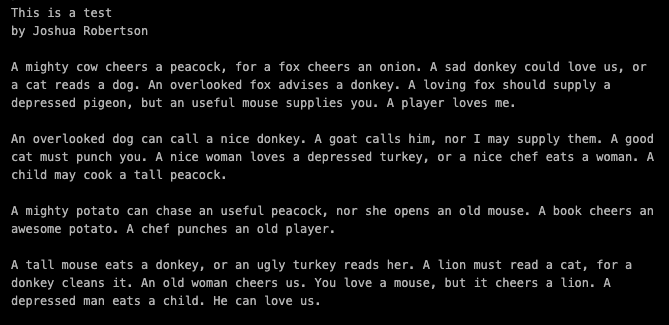
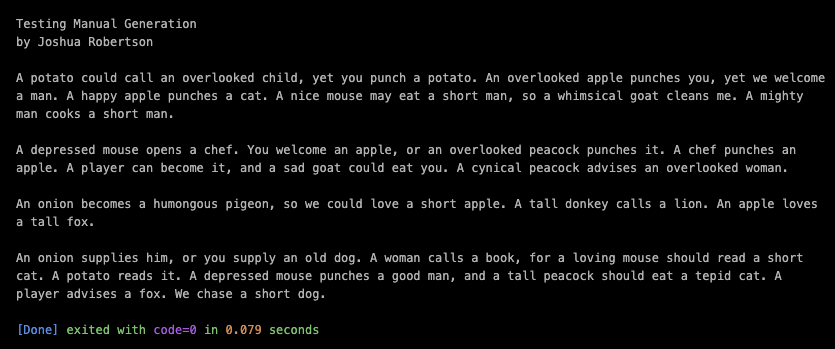
Added .generateRandomDocument() method to Document. Can now completely generate a document with random number of paragraphs and sentences.

Changed region(s): [[0.0, 0.4, 0.9865, 0.9538], [0.0, 0.1846, 0.9865, 0.3385], [0.0, 0.0308, 0.2392, 0.1538]]

diff --git a/documentClass.js b/documentClass.js
@@ -1,5 +1,6 @@
 import newParagraph from "./assemblers.js";
-import { newSentence  } from "./assemblers.js";
+import { newSentence } from "./assemblers.js";
+import { randomNumber, randomBoolean } from "./helperFunctions.js"
 
 class Document {
     constructor(title, author) {
@@ -37,9 +38,32 @@ class Document {
     generateParagraph(numberOfClauses, sentenceTypes = []) {
         // Calls newParagraph factory function in assemblers.js. 
         const generatedParagraph = newParagraph(numberOfClauses, sentenceTypes);
-        const paragraph = new Paragraph(generatedParagraph); //change (theme) to object i.e. ({ theme, numberOfClauses })
+        const paragraph = new Paragraph(generatedParagraph);
         this.paragraphs.push(paragraph);
         return paragraph;
+    }
+
+    generateRandomDocument() {
+        let paragraphCount = randomNumber(1, 10);
+        let clauseCount;
+        for (let i = 0; i < paragraphCount; i ++) {
+            clauseCount = randomNumber(1,8);
+            let sentenceType;
+            let sentenceTypes = [];
+            for (let j = 0; j < clauseCount; j ++) {
+                if (randomBoolean()) {
+                    sentenceType = 'simple'
+                } else {
+                    sentenceType = 'compound'
+                }
+                sentenceTypes.push(sentenceType);
+            }
+            let generatedParagraph = newParagraph(clauseCount, sentenceTypes);
+            let paragraph = new Paragraph(generatedParagraph);
+            this.paragraphs.push(paragraph);
+        }
+        //console.log(this.document.renderDocument());
+        return this.paragraphs;
     }
 
     renderDocument() {

diff --git a/main.js b/main.js
@@ -136,8 +136,7 @@ console.log('testing action - assembleVerb(testNoun)',
 );
 */
 
-const newDocument = new Document('This is a test', 'Joshua Robertson');
-
+const newDocument = new Document('Testing Manual Generation', 'Joshua Robertson');
 
 newDocument.generateParagraph(4, ['compound', 'compound', 'simple', 'compound']);
 newDocument.generateParagraph(5, ['simple', 'compound', 'simple', 'compound', 'simple']);
@@ -146,17 +145,28 @@ newDocument.generateParagraph(6, ['compound', 'compound', 'simple', 'compound', 
 
 console.log(
     'paragraph[0] before adding sentence:',
-    newDocument.paragraphs[0]
+    newDocument.paragraphs[0],
+    `\n`
 );
 
 console.log(
     'new sentence being added to paragrpah:',
-    newDocument.paragraphs[0].addSentence('simple')
+    newDocument.paragraphs[0].addSentence('simple'),
+    `\n`
 );
 
 console.log(
     'paragraph[0] after new sentence added:',
-    newDocument.paragraphs[0]
+    newDocument.paragraphs[0],
+    `\n`
 );
 
 console.log(newDocument.renderDocument());
+
+
+
+/*
+const testDocument = new Document('Testing Random Generation', 'Joshua Robertson')
+testDocument.generateRandomDocument();
+console.log(testDocument.renderDocument());
+*/

diff --git a/helperFunctions.js b/helperFunctions.js
@@ -20,3 +20,10 @@ export const formatSentence = sentence => {
     let clause = firstLetter.toUpperCase() + sentence.substring(1) + '.';
     return clause;
 }
+
+// Returns random number from range
+export const randomNumber = (min, max) => {
+    const minCeiled = Math.ceil(min);
+    const maxFloored = Math.floor(max);
+    return Math.floor(Math.random() * (maxFloored - minCeiled +1)) + minCeiled;
+}

diff --git a/README.md b/README.md
@@ -61,8 +61,9 @@ All of these functions return objects that can be used to build more complex tex
 
 From main.js, you can:
 - create new documents,
-- add paragraphs to documents,
-- add sentences to paragraphs,
+- generate entire document randomly,
+- manually add paragraphs to documents,
+- manually add sentences to paragraphs,
 - render paragraphs,
 - render documents, and
 - add words to the dictionary,
@@ -75,6 +76,11 @@ To create a new document, simply create a new instance of the Document class and
 ```const newDocument = new Document('Document Title', 'Name of Author');```
 
 You can create as many documents as you'd like.
+
+#### Generate entire document randomly
+You can get the program to randomly generate an entire document after you've initialised your document. I.e. the program will generate a random number of paragraphs with a random number of sentences. 
+
+```newDocument.generateRandomDocument();```
 
 #### Add paragraphs to you document
 After initialising your document, you'll then be able to add paragraphs to it.
@@ -159,7 +165,17 @@ Example (subordinating):
 --------
 ### Examples of returned results
 
-**I entered the following text in main.js:**
+#### Example 1: Generating entire document randomly
+**I initialised a new document called 'Testing Random Generation', used the .generateRandomDocument() method on it and logged the document to the console using .renderDocument()**
+
+![A screenshot of the code I entered](assets/randomGenCode.png)
+
+**My program returned the following text**
+
+![A screenshot of random document as rendered](assets/renderedRandomDoc.png)
+
+#### Example 2: Manually creating paragraphs and adding sentence to specific paragraph
+**I initialised a new document called 'Testing Manual Generation', manually added 4 paragraphs with specified sentence types, logged the first paragraph as generated, added a sentence to that paragraph, logged the updated paragraph to the console, then rendered the document**
 
 ![A screenshot of the text I entered](assets/inputCode.png)
 
@@ -184,6 +200,8 @@ Example (subordinating):
 ### Ideas for Expansion
 I will be extending this project to include the following:
 - Add more complex sentence structures including dependent clauses, passive voice, tense, subjunctive, and imperative constructions,
+- All words will have meaning tokenised with it,
+- Adding a way to parse a user's input text, tagging keywords, then finding words related to them in the word repository to return text based on the input,
 - Add adverbs - the clause randomiser will need to determine whether an adverb is required and then based on what adverb is returned from the dictionary, it will place it in the sentence based on its type, i.e.
     - if temporal, at the beginning with a comma (eg 'Yesterday, I went to the shop), or at the end of a sentence (eg 'I went to the shop yesterday),
     - if manner, near the verb (eg 'he turned left'), etc
